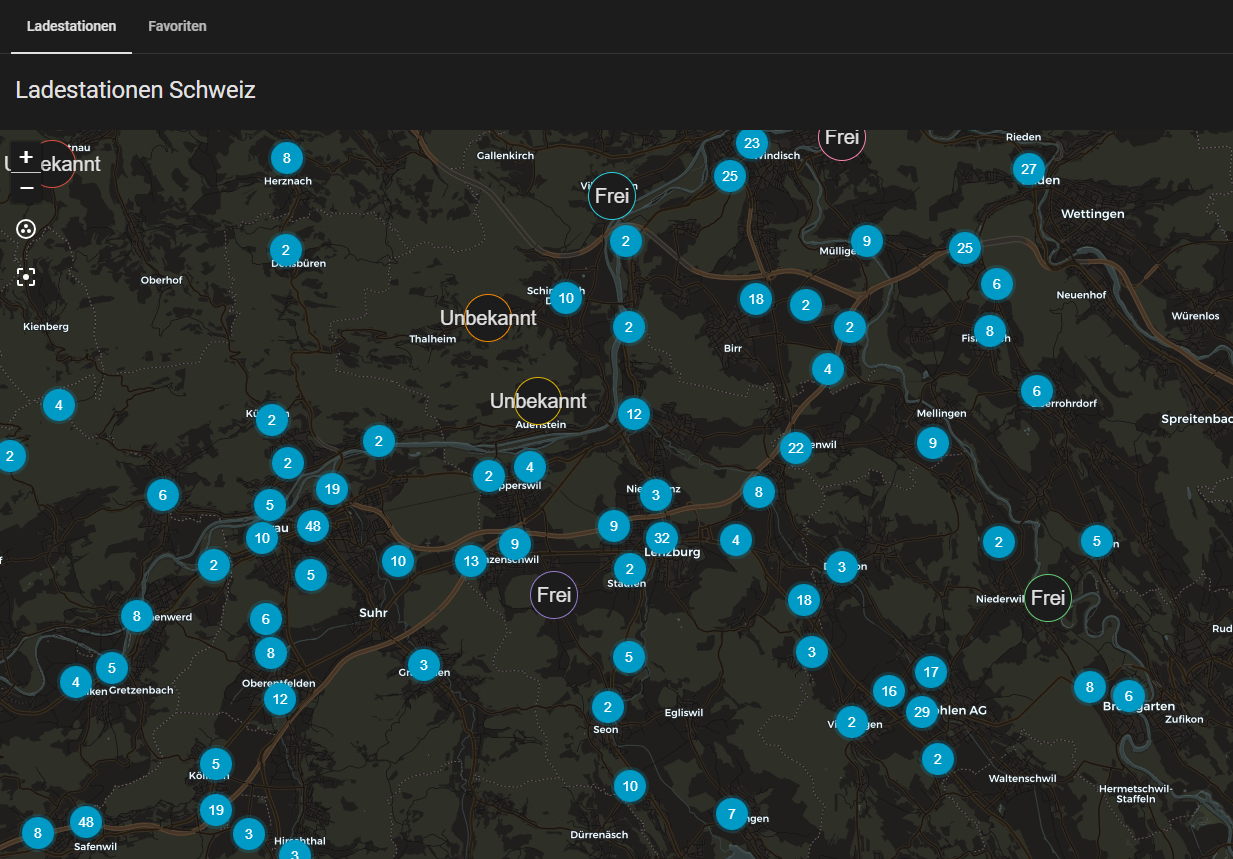
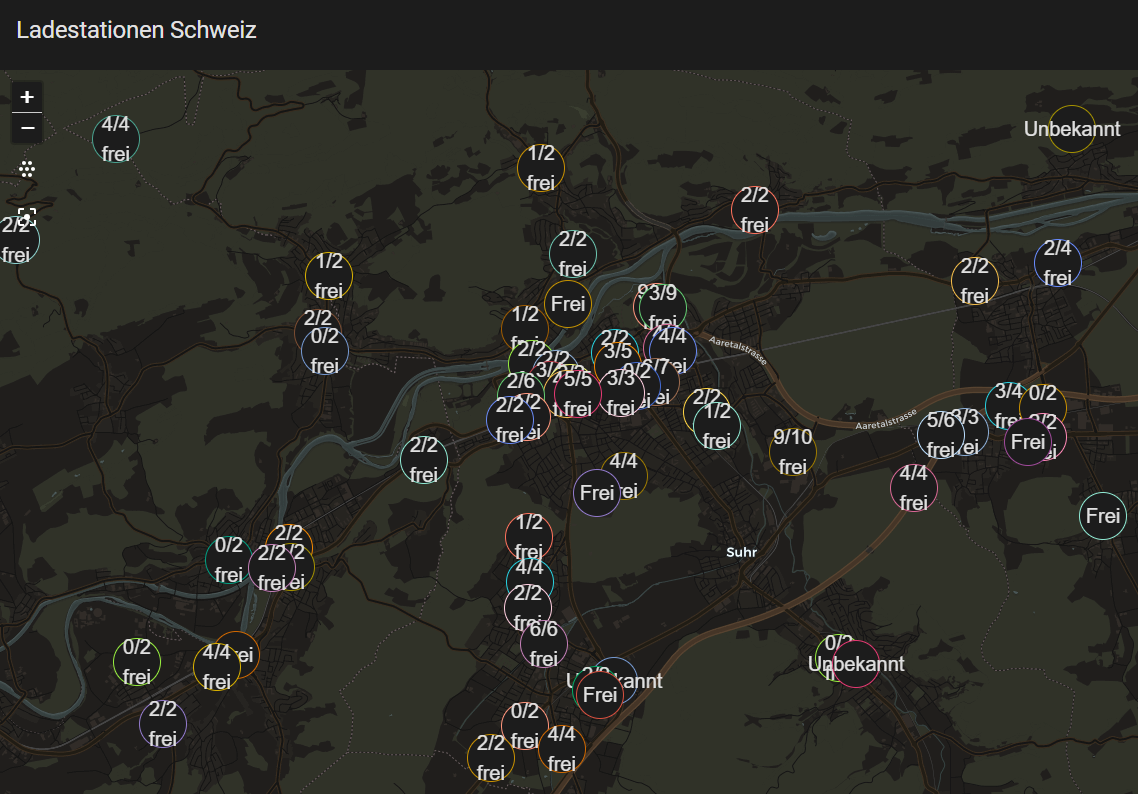
Update map screenshot to per-site availability markers

diff --git a/README.md b/README.md
@@ -81,7 +81,7 @@ Entity names, the device name, and the dropdown filter values adapt automaticall
 
 On first setup, the integration automatically creates a **"Charging Stations"** dashboard (title localized to your HA language) with a full-screen native Home Assistant Map card, already configured to display each station's status directly on its marker. This only happens once: if you later customize or delete that dashboard yourself, the integration won't touch it again.
 
-![The auto-generated dashboard map: station markers cluster at lower zoom levels and show the live status label when zoomed in](docs/map-example.png)
+![The auto-generated dashboard map: one marker per charging site, labeled with live availability](docs/map-example.png)
 
 Favoriting a station or a whole site adds a second view, **"Favorites"**, to that same dashboard with a pre-filled Entities card per favorite — feel free to edit or delete it, though it's kept in sync with the favorite's current connectors on every restart.
 
